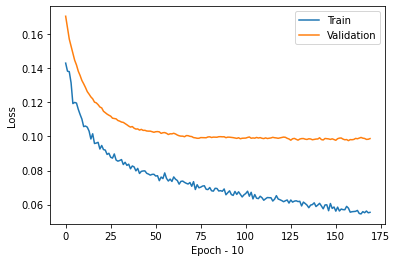
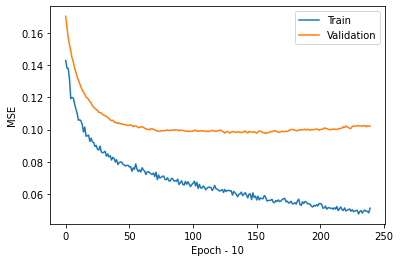
change y label to MSE. graphs for the paper

diff --git a/model.py b/model.py
@@ -157,7 +157,7 @@ print("%d seconds to train the model" % (time.time() - start_time))
 omit_first = 10
 plt.plot(history_object.history['mean_squared_error'][omit_first:])
 plt.plot(history_object.history['val_mean_squared_error'][omit_first:])
-plt.ylabel('Loss')
+plt.ylabel('MSE')
 plt.xlabel('Epoch - %d' % omit_first)
 plt.legend(['Train', 'Validation'], loc='upper right')
 plt.savefig('cnn_loss.png', bbox_inches='tight')
